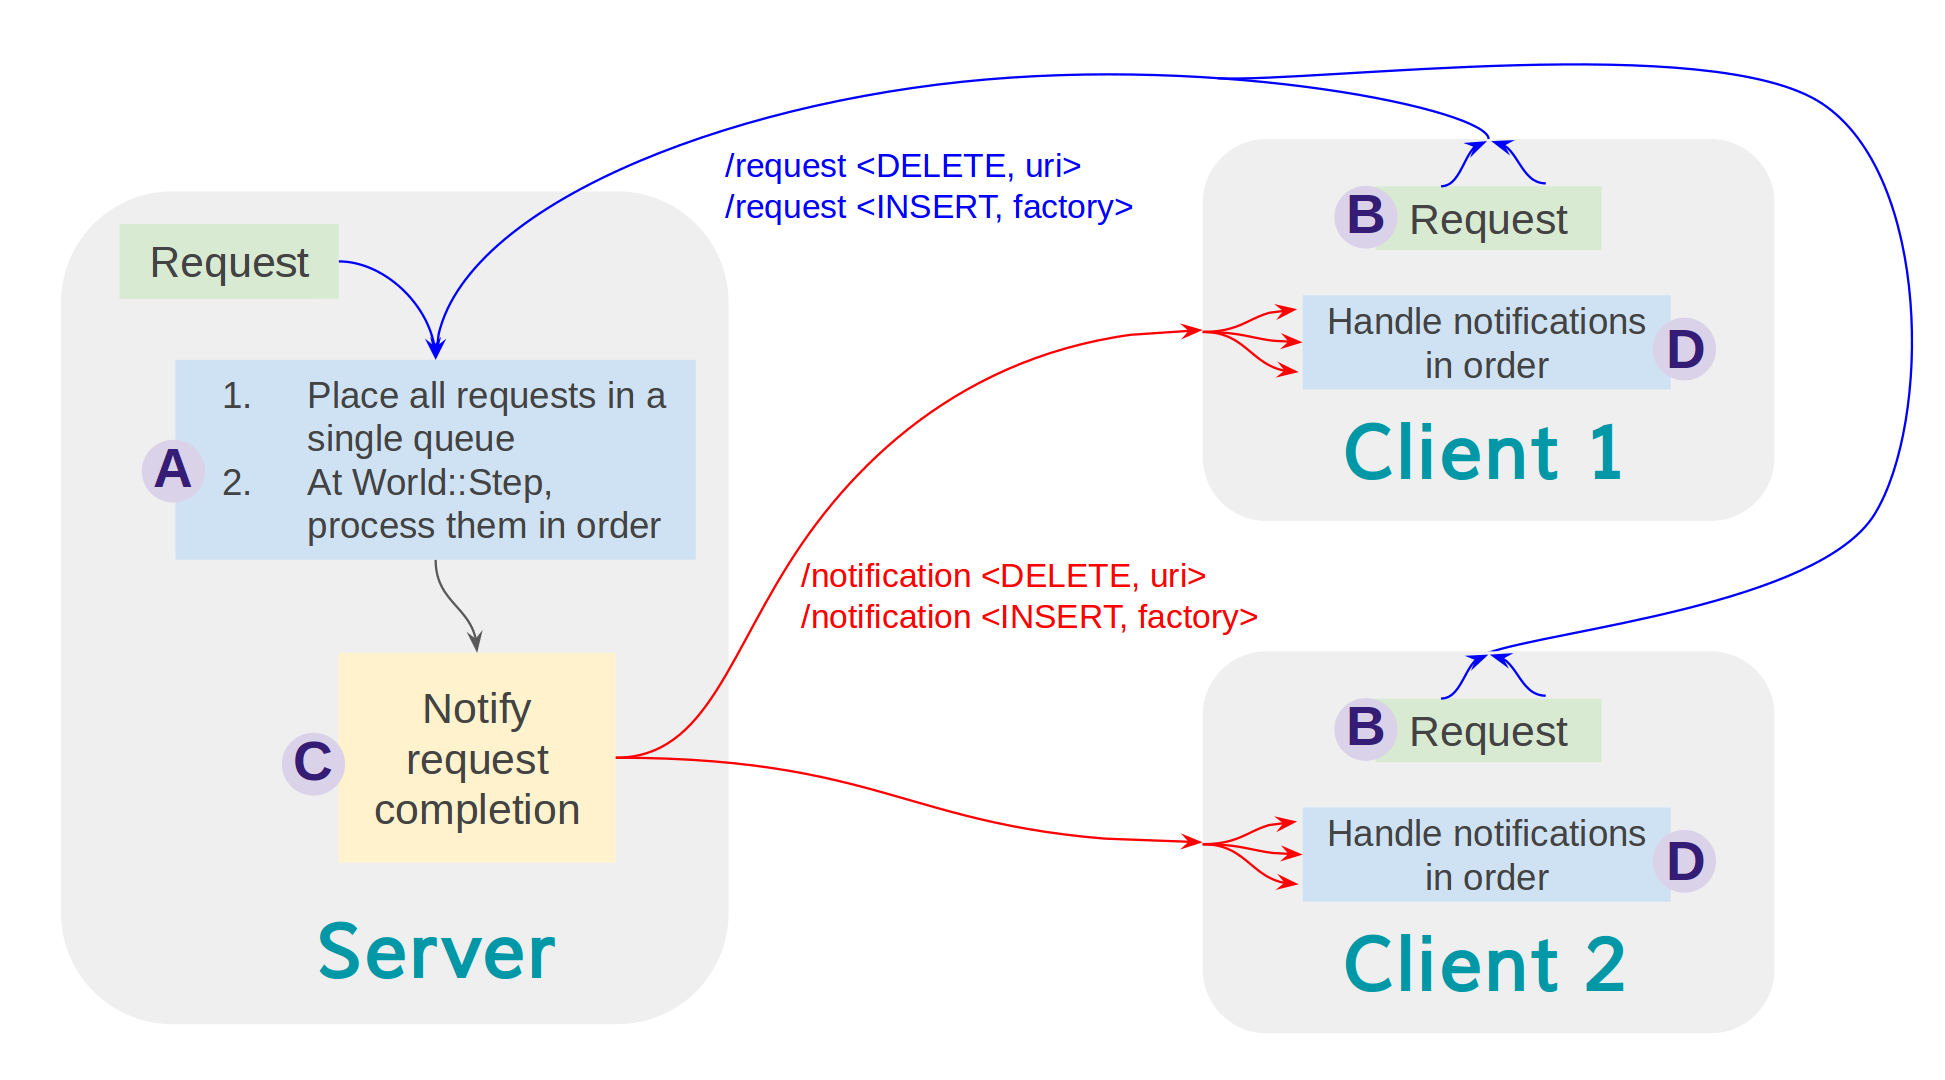
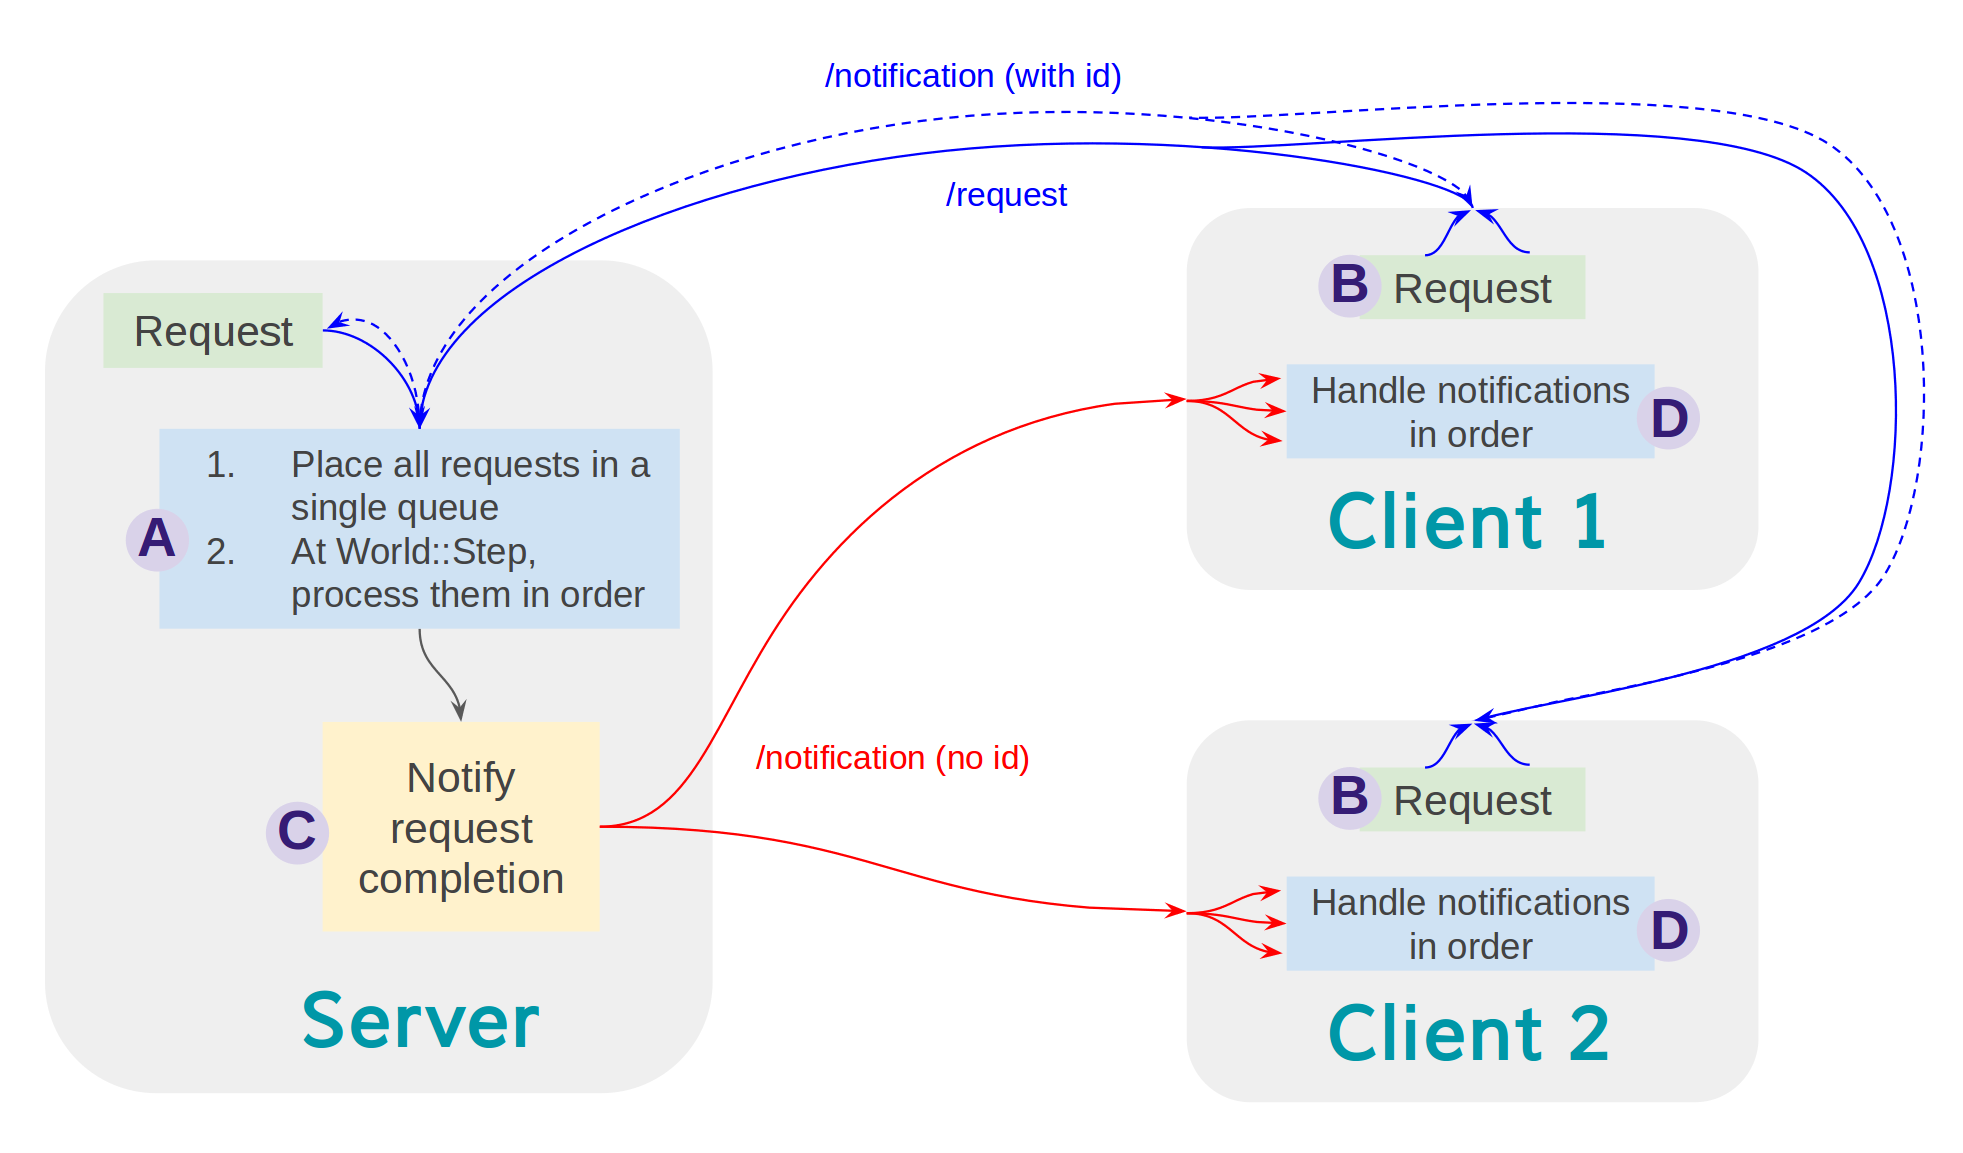
ids, success and response notification

diff --git a/insertion_deletion_flow/insertion_deletion_flow.md b/insertion_deletion_flow/insertion_deletion_flow.md
@@ -62,6 +62,10 @@ insertion/deletion, but also includes things like pose change.
 * After a request has been fulfilled, the server notifies everyone else about it
 in a unified way.
 
+* The server also sends specific feedback to the requester, which is especially
+useful in case of failure to fulfill the request. (for example, if the request
+was to delete something which doesn't exist).
+
 The flow is captured in this image:
 
 ![Flow](https://bitbucket.org/osrf/gazebo_design/raw/insertion_deletion_flow/insertion_deletion_flow/flow.png)
@@ -82,7 +86,7 @@ and notifications. For example:
     /// \brief A message containing a single operation, specified by type.
     /// The operation data will be contained in another field.
     /// It can be used to request that an operation is performed, or to
-    /// notify it has been performed, for example. For example:
+    /// notify it has been performed. For example:
     ///
     /// if (msg.type() == DELETE_ENTITY)
     /// {
@@ -107,11 +111,20 @@ and notifications. For example:
       /// \brief Type of operation.
       required Type type = 1;
 
+      /// \brief Unique ID of operation.
+      optional uint32 id = 2;
+
+      /// \brief When notifying, this can be used to tell whether it was a success.
+      optional bool success = 3;
+
+      /// \brief Optional message about operation.
+      optional string msg = 4;
+
       /// \brief Entity URI in string format, for delete operations for example.
-      optional string uri = 2;
+      optional string uri = 5;
 
       /// \brief Factory message, for insert operations.
-      optional Factory factory = 3;
+      optional Factory factory = 6;
     }
 
 #### Block A
@@ -138,9 +151,9 @@ message. For example:
 Internally, all requests, independently of type, are placed in a single queue.
 The queue is processed in order at each `World::Step`.
 
-* As part of the model destruction, some events might be triggered (which result
-  in work to do in other threads, such as the sensor thread). This might need
-  better synchronization or not.
+* For certain operationsm, events might be triggered and result
+  in work to do in other threads, such as the sensor thread. This might require
+  better synchronization.
 
 #### Block B
 
@@ -162,37 +175,23 @@ Requests can be sent directly from any widget in the client.
 
 ##### Request helpers
 
-Due to the nature of ignition services, every request must provide a response
-callback function, even if we don't care about the reply. That's why we needed
-the `unused` lambda in the example above.
+The snippet above can become cumbersome and repetitive, especially compared
+to the current single-lined `gazebo::transport::requestNoReply()`. For requests
+which will be used often, a new header `gazebo/transport/Request.hh`, will be
+provided, with functions such as:
 
-None of the requests proposed in this design require responses. So every
-request would need to create a function which won't be used. That can become
-quite cumbersome and repetitive, especially compared to the current
-single-lined `gazebo::transport::requestNoReply()`.
+    /// \brief Helper function to create entity delete requests using ignition
+    /// transport.
+    /// \param[in] _uri URI of entity to be deleted.
+    GZ_TRANSPORT_VISIBLE
+    size_t RequestEntityDelete(const std::string &_uri);
 
-Possible solutions:
+### Response to requester (dashed blue lines)
 
-* Add a feature to Ignition Transport: the possibility of making requests which
-don't require responses to
-
-* Add helper functions to Gazebo, for example:
-
-  void transport::ignRequestEntityDelete(const std::string &_uri)
-  {
-    // Unused callback
-    std::function<void(const gazebo::msgs::Empty &, const bool)> unused =
-      [](const gazebo::msgs::Empty &, const bool &)
-    {
-    };
-
-    msgs::Operation req;
-    req.set_type(msgs::Operation::DELETE_ENTITY);
-    req.set_uri(_uri);
-
-    ignition::transport::Node ignNode;
-    ignNode.Request("/request", req, unused);
-  }
+Each request will be given a unique id. Once the request has been processed,
+the server will send a notification through the normal notification topic,
+containing the same id as the request, contaning a message about success or
+failure.
 
 ### Notification to clients (red arrows)
 
@@ -221,6 +220,9 @@ been cleaned up, so transport for example might not be available anymore).
 * Notification about insertion can be sent in the end of each `<Entity>::Load`
 method (i.e. `Model::Load`, `Link::Load`, etc), which is when we're sure the
 entity has been completely loaded without issues.
+
+* These notifications are sent far from where the request was received, and
+won't contain the request id.
 
 #### Block D
 
